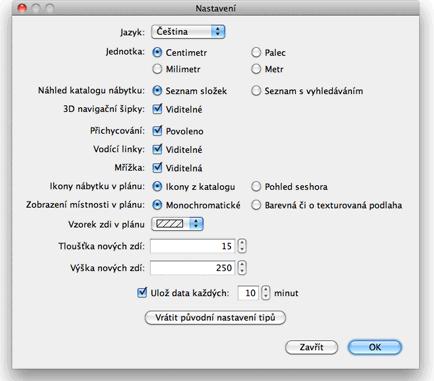
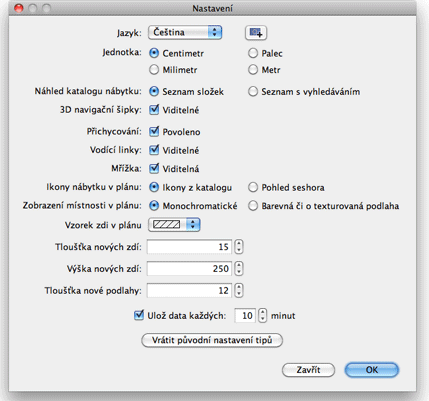
Updated preferences dialog
git-svn-id: https://svn.code.sf.net/p/sweethome3d/code/trunk/SweetHome3D@3267 03e323e1-6c6c-46a5-9f71-c4ce5d8c6204

Changed region(s): [[0.0, 0.0, 0.9697, 0.9816]]

diff --git a/src/com/eteks/sweethome3d/viewcontroller/resources/help/cs/editingPreferences.html b/src/com/eteks/sweethome3d/viewcontroller/resources/help/cs/editingPreferences.html
@@ -26,7 +26,7 @@
 <table width="100%" border="0" cellspacing="0" cellpadding="3">
 	<tr>
 	<td><p>Nastavení programu Sweet Home 3D změníte v <i>Sweet Home 3D &gt; Nastavení...</i> v prostředí Mac OS X nebo v <i>Projekt &gt; Nastavení...</i> v jiných systémech.</p>
-	    <p align="center"><img src="images/editingPreferences.png" width="434" height="381"></p>
+	    <p align="center"><img src="images/editingPreferences.png" width="429" height="401"></p>
 	  <p>V okně nastavení můžete měnit <i>jazyk</i> prostředí programu Sweet Home 3D, <i>měrnou jednotku</i> užívanou v pravítku plánu, mřížce a všech dalších rozměrech.    <br>
 						
 	    Políčko <i>přichytávání</i> povoluje či zakazuje užívání přichytávání v plánu projektu při <a href="drawingWalls.html">kreslení zdí</a>

diff --git a/src/com/eteks/sweethome3d/viewcontroller/resources/help/es/editingPreferences.html b/src/com/eteks/sweethome3d/viewcontroller/resources/help/es/editingPreferences.html
@@ -27,7 +27,7 @@
       <td><p>Para editar las preferencias de Sweet Home 3D, elige <i>Sweet Home 3D 
           &gt; Preferencias...</i> en Mac OS X o <i>Archivo &gt; Preferencias...</i> 
           en otros sistemas.</p>
-        <p align="center"><img src="images/editingPreferences.png" width="447" height="379"></p>
+        <p align="center"><img src="images/editingPreferences.png" width="450" height="404"></p>
         <p>En el panel preferencias, puedes elegir el <i>Idioma</i> usado en la 
           interfaz de usuario de Sweet Home 3D y las <i>Unidades</i> usadas para 
           dibujar las reglas y rejillas del plano, y mostrar las longitudes.</p>

diff --git a/src/com/eteks/sweethome3d/viewcontroller/resources/help/it/editingPreferences.html b/src/com/eteks/sweethome3d/viewcontroller/resources/help/it/editingPreferences.html
@@ -33,7 +33,7 @@
 				&gt; Preferenze...</I> sotto Mac OS X oppure <I>File &gt;
 				Preferenze...</I> sotto altri sistemi operativi.</P>
 				
-        <P ALIGN=CENTER><IMG SRC="images/editingPreferences.png" ALIGN=BOTTOM WIDTH=434 HEIGHT=381 BORDER=0></P>
+        <P ALIGN=CENTER><IMG SRC="images/editingPreferences.png" ALIGN=BOTTOM WIDTH=435 HEIGHT=401 BORDER=0></P>
 				<P>Nel pannello preferenze, puoi scegliere il <I>Linguaggio</I>
 				usato per l'interfaccia utente di Sweet Home 3D e l'<I>Unità di
 				misura</I> usata per disegnare i righelli e la griglia della